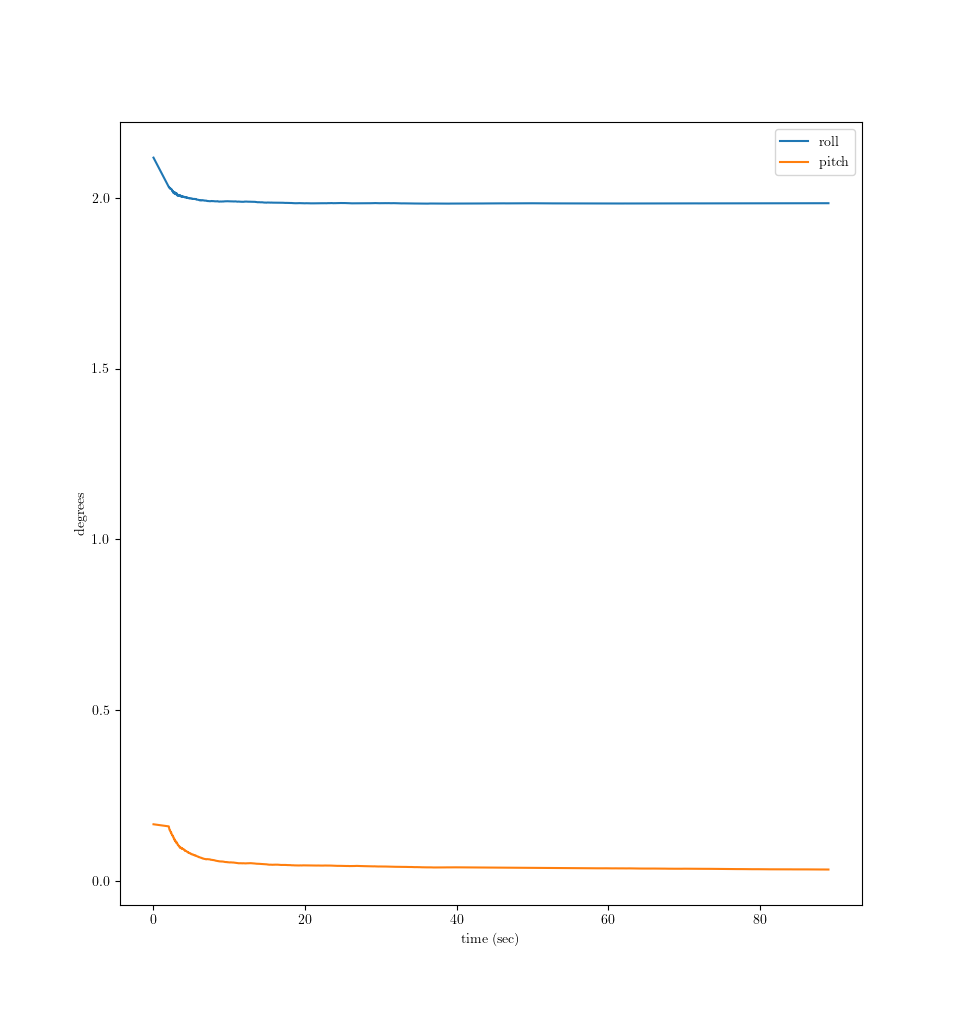
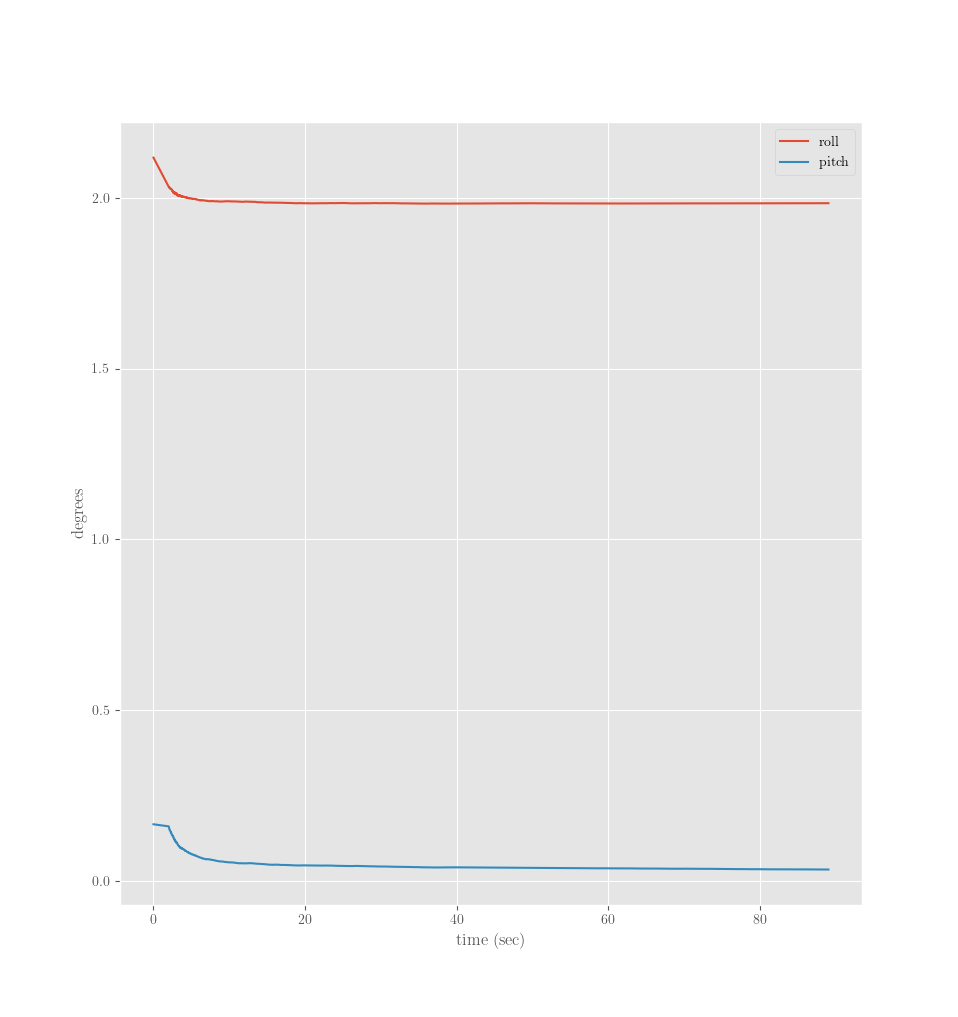
update imgs

diff --git a/scripts/analyze.py b/scripts/analyze.py
@@ -3,12 +3,13 @@
 from matplotlib import rc
 import matplotlib.pyplot as plt
 import numpy as np
+plt.style.use('ggplot')
 
 rc('font', **{'family':'serif', 'serif':['Cardo']})
 rc('text', usetex=True)
 
 def save_plot(xlabel, ylabel):
-    plt.legend()
+    plt.legend(loc=1)
     plt.xlabel(xlabel)
     plt.ylabel(ylabel)
     plt.show()
